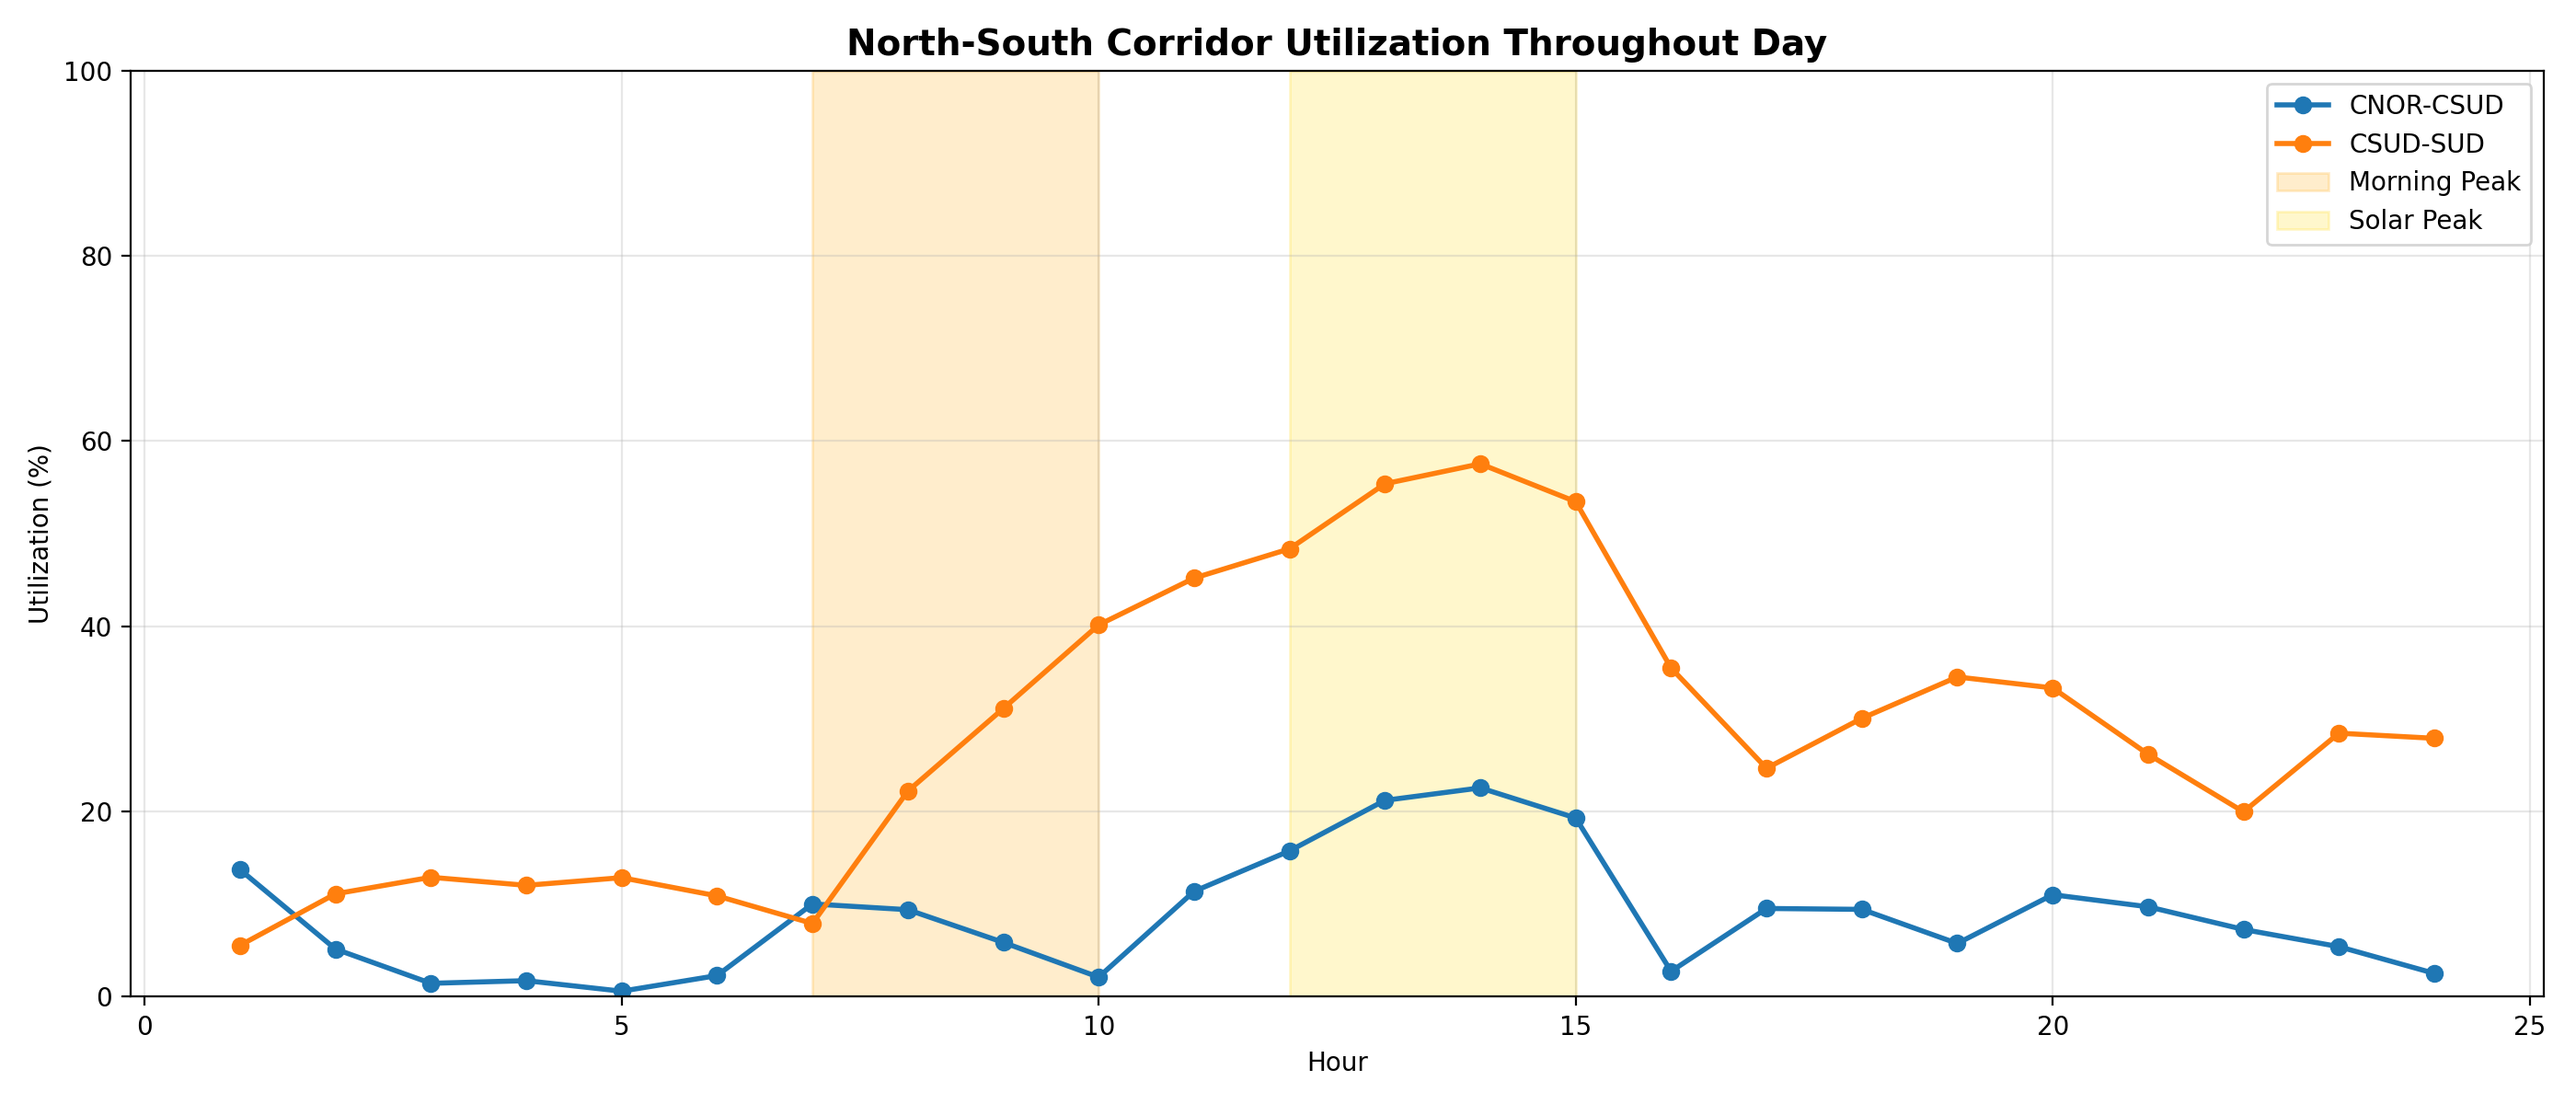
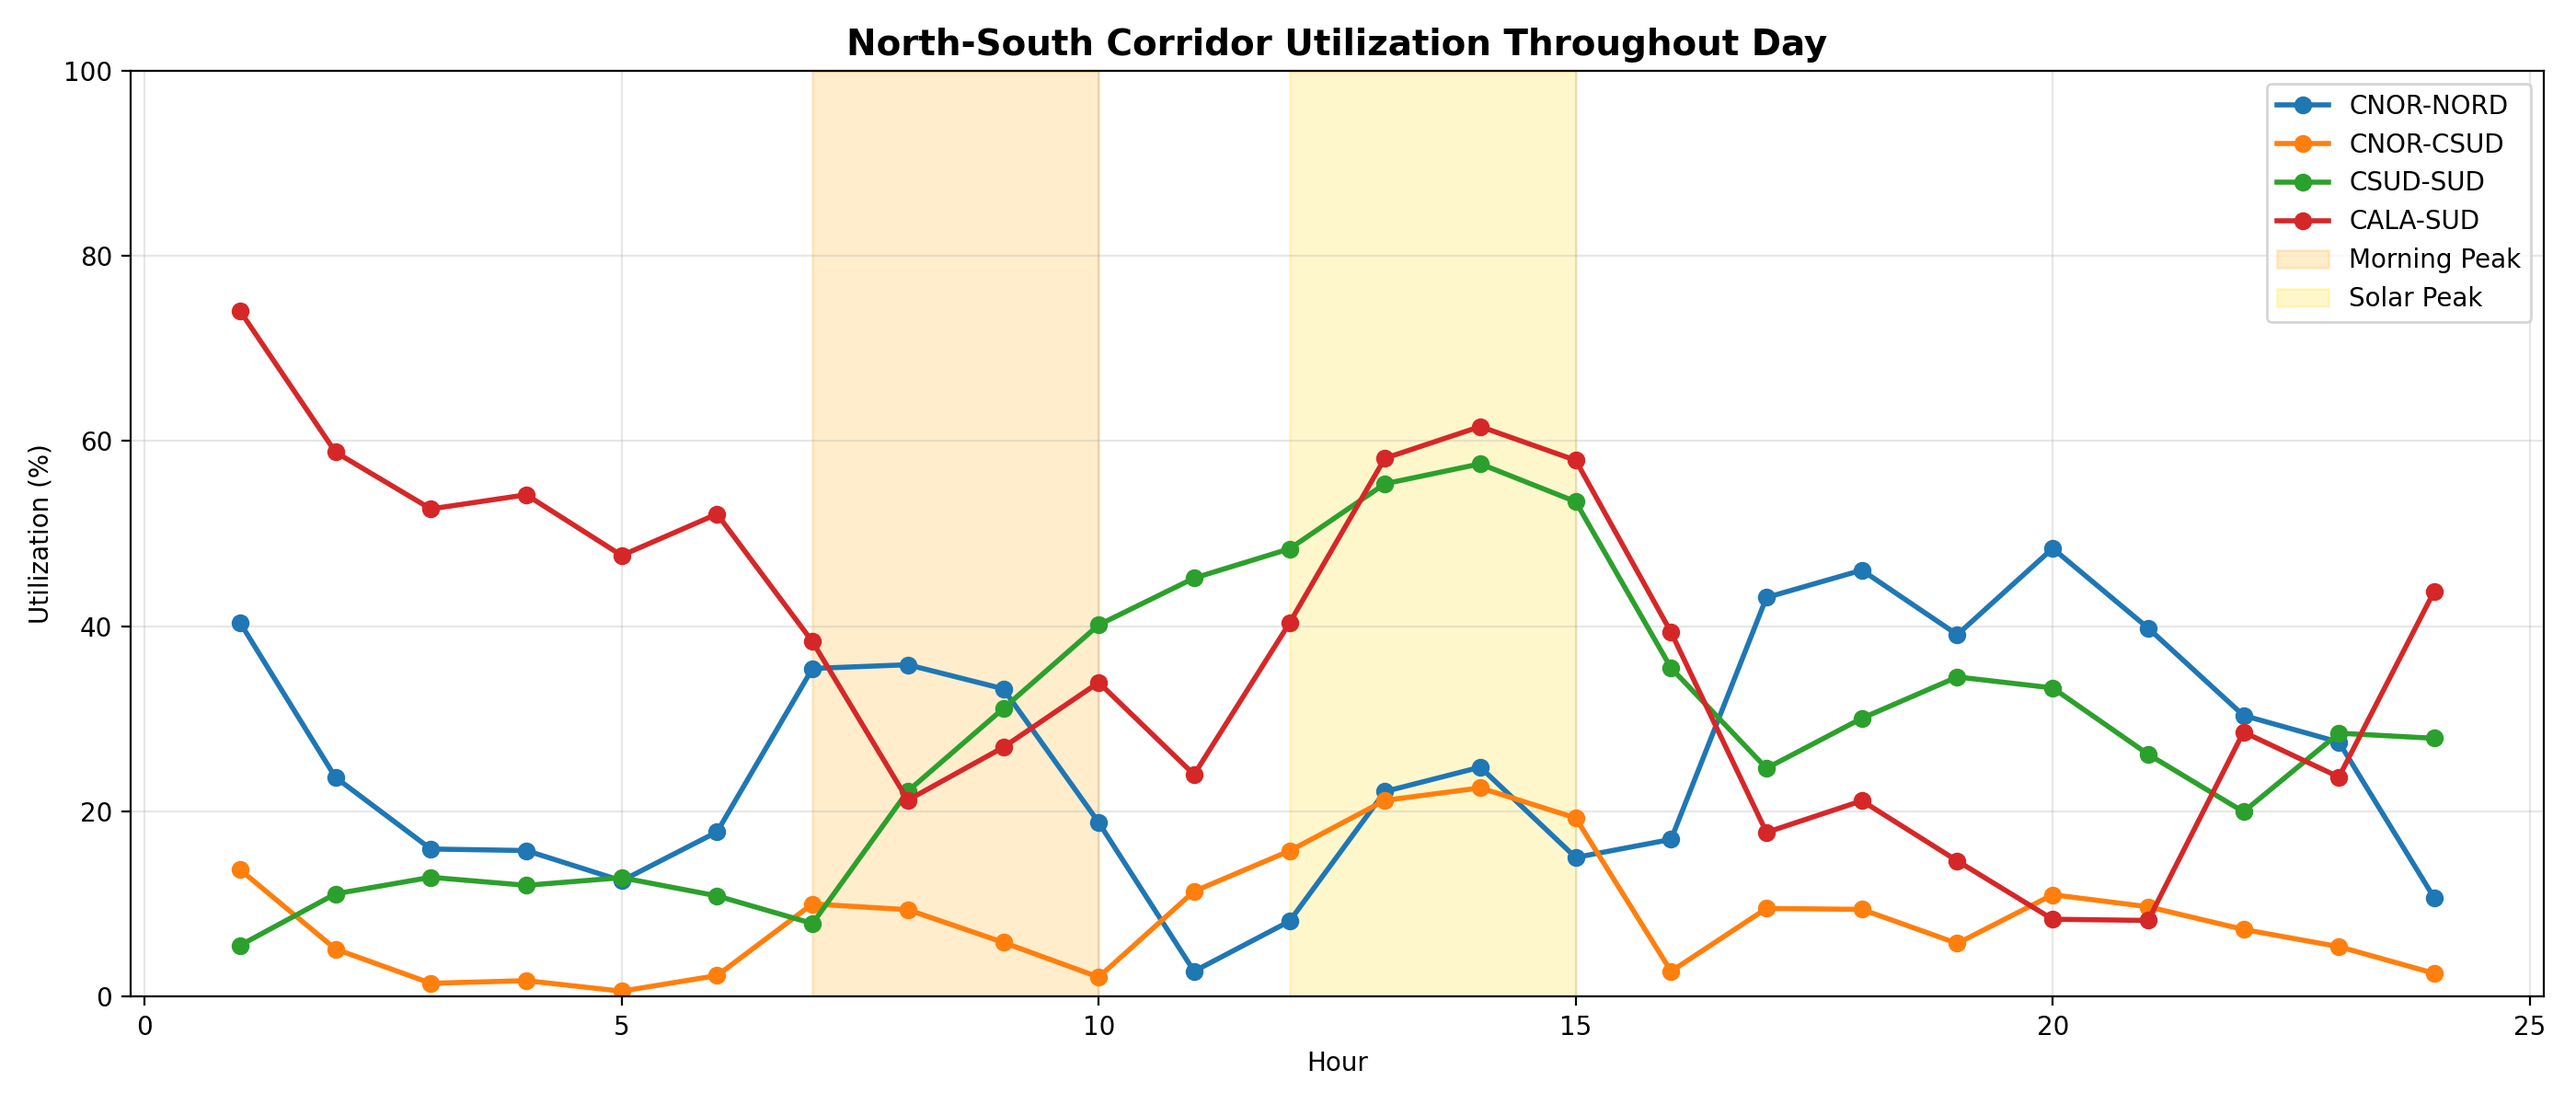
Fix: Correct corridor direction names to match GME data
- Changed NORD-CNOR → CNOR-NORD (actual flow direction)
- Time series now shows all 4 key corridors correctly
- CNOR-NORD visible in all plots (26% avg, 31% morning peak)

diff --git a/analyze_congestion.py b/analyze_congestion.py
@@ -167,13 +167,13 @@ def analyze_congestion(flow_csv, price_csv, output_dir='analysis'):
         print(f"  Saved: {output_dir}/morning_vs_midday.png")
         plt.close()
     
-    # Visualization 3: Time series of key corridors
-    key_corridors = ['NORD-CNOR', 'CNOR-CSUD', 'CSUD-SUD', 'SUD-CALA']
+    # Visualization 3: Time series of key corridors (use actual GME directions)
+    key_corridors = ['CNOR-NORD', 'CNOR-CSUD', 'CSUD-SUD', 'CALA-SUD']
     
     fig, ax = plt.subplots(figsize=(14, 6))
     for corridor in key_corridors:
-        if corridor in flows_df['corridor'].values:
-            corridor_data = flows_df[flows_df['corridor'] == corridor]
+        if corridor in network_flows['corridor'].values:
+            corridor_data = network_flows[network_flows['corridor'] == corridor]
             hourly = corridor_data.groupby('hour')['utilization'].mean()
             ax.plot(hourly.index, hourly.values, marker='o', label=corridor, linewidth=2)
     
